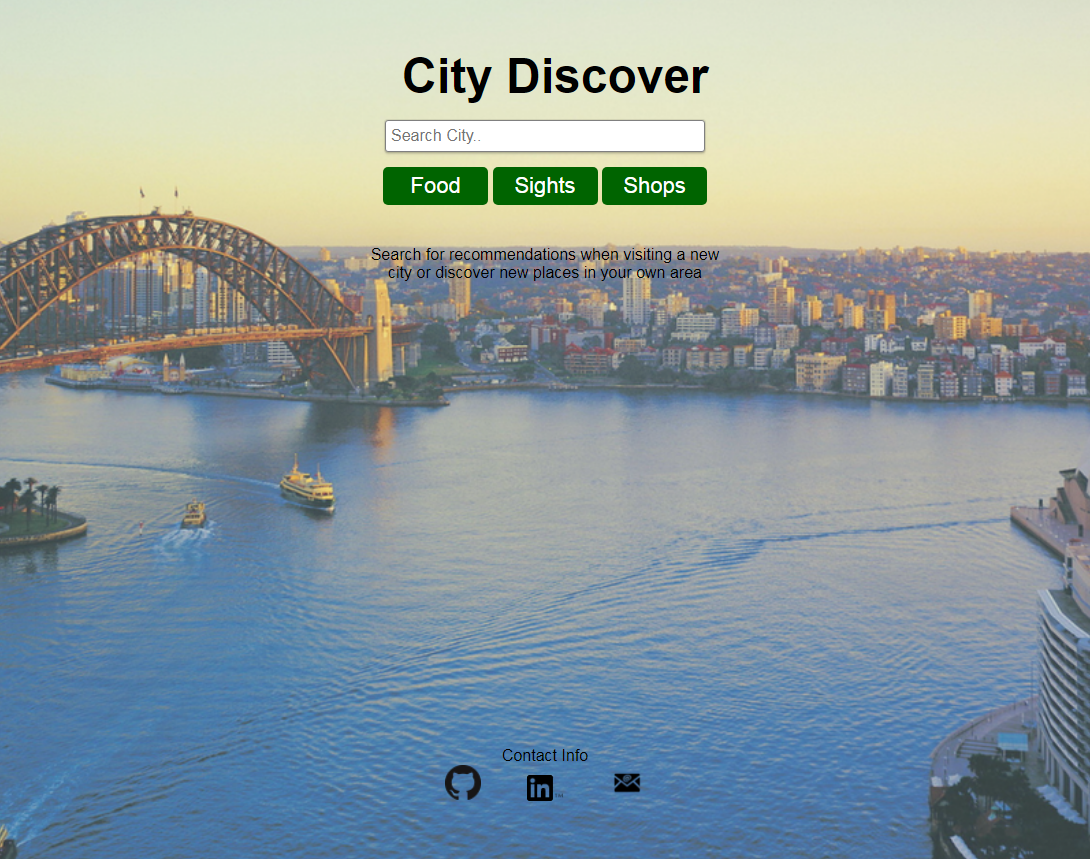
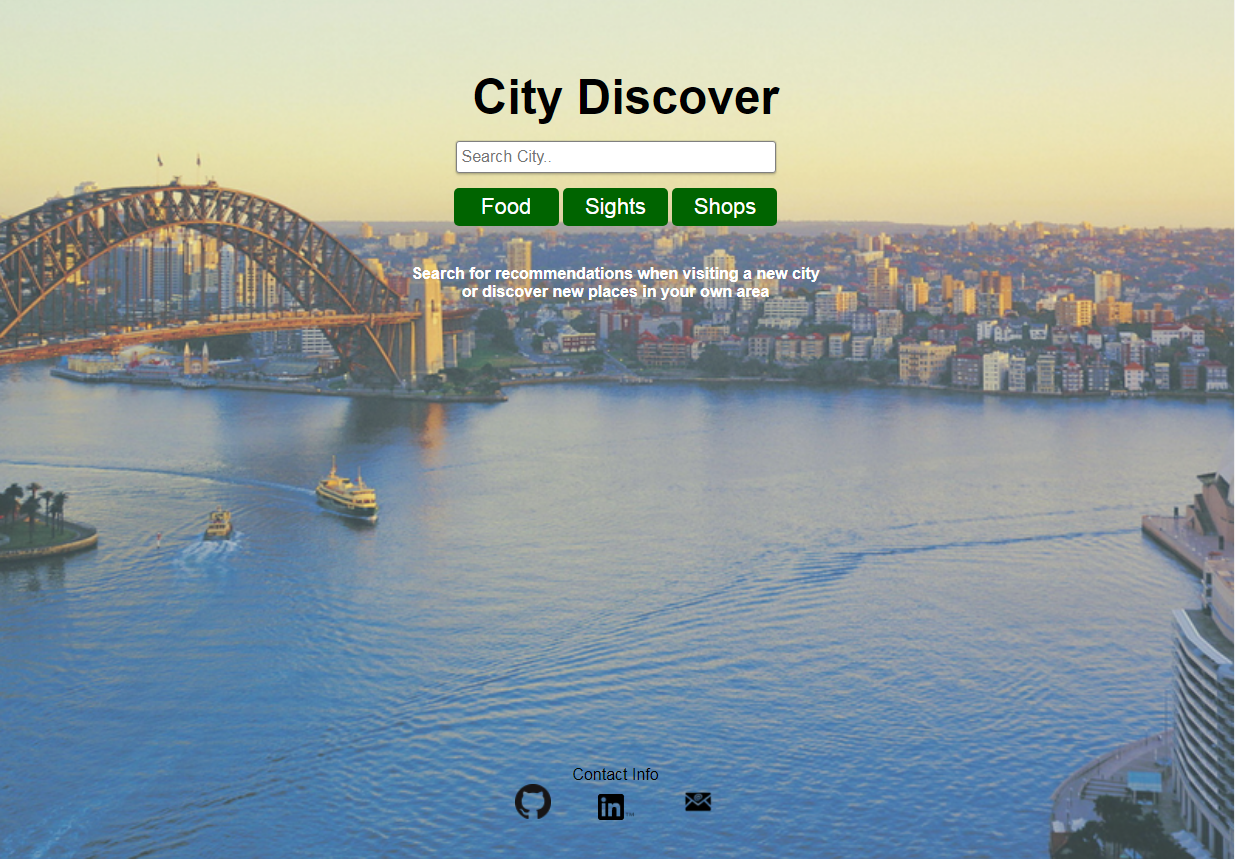
changed landing page, minor js tweaks, no underline for links

Changed region(s): [[0.0, 0.0, 1.0, 1.0], [0.0, 0.5146, 0.3119, 0.7567], [0.0, 0.8778, 0.1872, 1.0]]

diff --git a/index.js b/index.js
@@ -99,14 +99,28 @@ function displayWeather(data) {
         </div>
       </div>   `;
 }
+//Toggles button colors once clicked
+function clickOnButton() {
+  $('button').on('click', function() {
+    let query = $('#search-input').val();
+    if (query === '') {
+      return;
+    } else {
+      $('button').removeClass('selected_button');
+      $(this).addClass('selected_button');
+      }
+  });
+}
 
-//Use global variables, functions, and objects (triggers)
+$(clickOnButton);
+
 function removeItemsAfterClick() {
   $('.space_holder').remove();
   $('.weather_result').empty();
   $('.intro_container').remove();
 }
 
+//Use global variables, functions, and objects (triggers)
 $('#food').on('click', function(event) {
 	event.preventDefault();
 	let query = $('#search-input').val();
@@ -146,16 +160,3 @@ $('#shops').on('click', function(event) {
     }
 });
 
-function clickOnButton() {
-  $('button').on('click', function() {
-    let query = $('#search-input').val();
-    if (query === '') {
-      return;
-    } else {
-      $('button').removeClass('selected_button');
-      $(this).addClass('selected_button');
-      }
-  });
-}
-
-$(clickOnButton);

diff --git a/main.css b/main.css
@@ -59,19 +59,21 @@ body {
 
 #city {
 	font-size: 48px;
+	font-weight: 650;
 	color: black;
 }
 
 .intro_container {
 	width: 288px;
 	margin: 0 auto;
-	margin-top: 20px;
+	margin-top: 18px;
 	text-align: center;
 }
 
 #intro {
 	font-size: 16px;
-	color: black;
+	color: white;
+	font-weight: 725;
 }
 /*search bar section*/
 .searchbar {
@@ -155,6 +157,9 @@ button {
 	color: #808080;
 }
 /*results section*/
+a:link {
+    text-decoration: none;
+}
 
 .space_holder {
  	height: 115px;
@@ -173,7 +178,9 @@ button {
 	font-size: 18px;
 	font-weight: bold;
 	margin-bottom: 5px;
+
 }
+
 
 .venue_image { 
 	width: 100%;
@@ -240,13 +247,15 @@ button {
 	text-align: center;
 	font-size: 16px;
 	margin: 15px;
+	color: white;
+	font-weight: 650;
 }
 
 @media only screen and (min-width: 640px) {
 body
 
 .intro_container {
-	width: 352px;
+	width: 428px;
 }
 
 .container_results{
